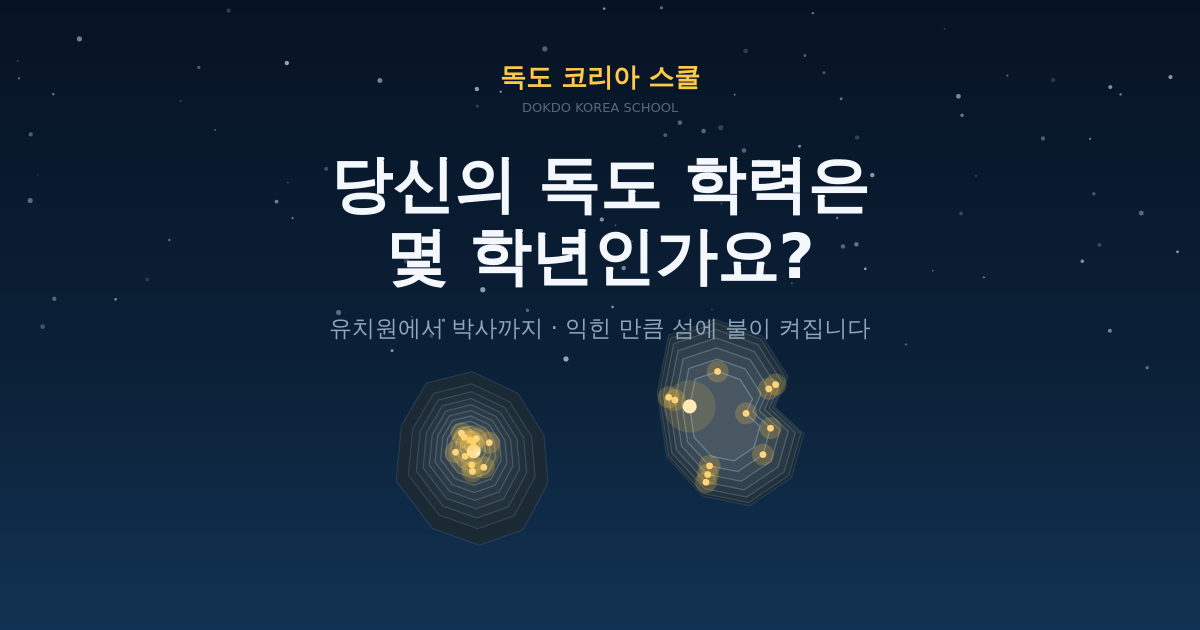
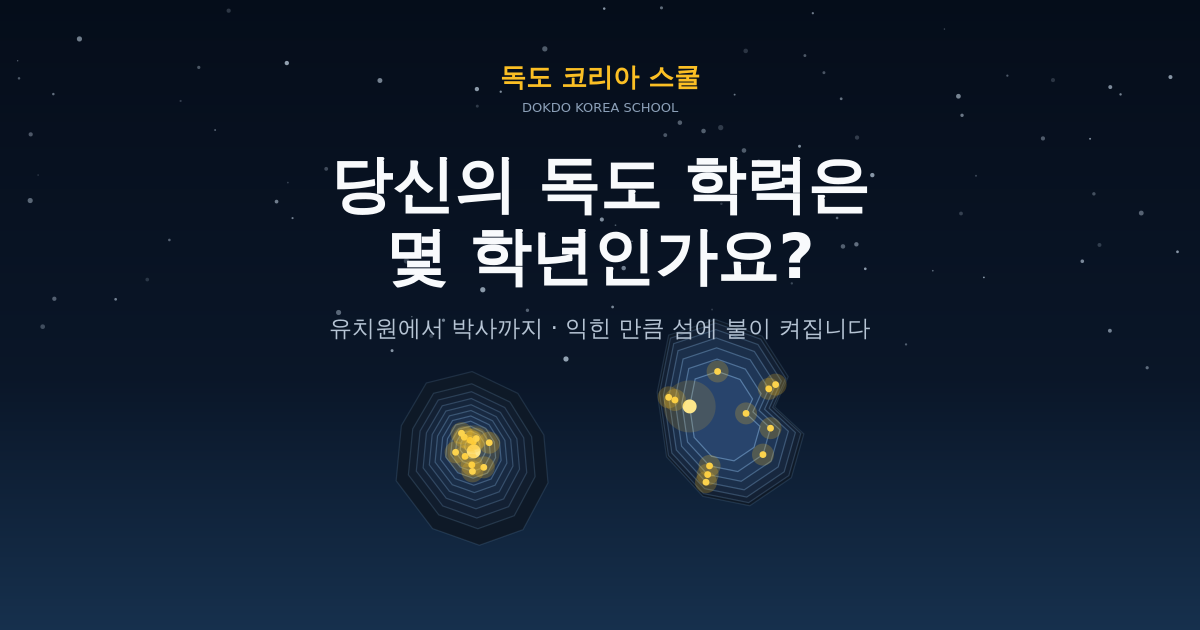
Add files via upload

diff --git a/index.html b/index.html
@@ -54,22 +54,22 @@
        발표자료·피칭덱과 같은 값을 씁니다. 앱만 다른 색을 쓰면 브랜드가 갈라집니다.
        바다는 완전한 검정 대신 아주 어두운 회색을 씁니다.
        순검정 위에서는 섬과 파도의 층이 구분되지 않습니다. */
-    --sea-deep:#0A0A0A;
-    --sea:#101010;
-    --panel:#1C1C19;
-    --panel-2:#242421;
-    --line:#333330;
-    --line-soft:#262623;
-    --ink:#F5F5F5;
-    --ink-mid:#C4C4BE;
-    --ink-dim:#9A9A94;
-    --light:#FFD600;
-    --light-soft:#FFE766;
-    --light-deep:#B39600;
+    --sea-deep:#050D1A;
+    --sea:#0A1628;
+    --panel:#0F2035;
+    --panel-2:#16304D;
+    --line:#1E3A5F;
+    --line-soft:#142842;
+    --ink:#F8FAFC;
+    --ink-mid:#B6C4D4;
+    --ink-dim:#8CA0B8;
+    --light:#FBBF24;
+    --light-soft:#FCD34D;
+    --light-deep:#B45309;
     --ok:#48C79E;
     --no:#E4695D;
-    --rock:#42423A;
-    --rock-lit:#5C5C51;
+    --rock:#1E3A5F;
+    --rock-lit:#3A6789;
     --r:14px;
     --maxw:600px;
   }
@@ -77,6 +77,8 @@
   body{
     margin:0;
     background:var(--sea-deep);
+    background-image:radial-gradient(130% 62% at 50% -6%, #0E2440 0%, #071324 45%, #050D1A 100%);
+    background-attachment:fixed;
     color:var(--ink);
     font-family:"GmarketSans","Apple SD Gothic Neo",system-ui,sans-serif;
     font-weight:500;
@@ -115,7 +117,7 @@
   .brand span{color:var(--light)}
   .stat{
     display:flex;align-items:center;gap:5px;
-    background:linear-gradient(180deg,#262623,#1A1A18);
+    background:linear-gradient(180deg,#262623,#081324);
     box-shadow:inset 0 1px 0 rgba(255,255,255,.05),0 1px 0 rgba(0,0,0,.3);
     border:1px solid var(--line-soft);
     border-radius:999px;padding:5px 11px;font-size:14px;color:var(--ink-mid);
@@ -129,7 +131,7 @@
     position:relative;overflow:hidden;
     box-shadow:inset 0 1px 0 rgba(255,255,255,.07),
                0 18px 38px -26px rgba(0,0,0,.95);
-    background:linear-gradient(180deg,#040A13 0%,#0D0D0C 46%,#131311 100%);
+    background:linear-gradient(180deg,#040A13 0%,#050D1A 46%,#081324 100%);
     border:1px solid var(--line-soft);border-radius:var(--r);
     margin-bottom:14px;
   }
@@ -145,9 +147,9 @@
   .sound-btn.on .sb-t{font-weight:600}
   .stars circle{fill:#CFE0F0}
   .rockface{fill:var(--rock)}
-  .rockedge{fill:none;stroke:#6B6B62;stroke-width:1.3;stroke-linejoin:round;opacity:.85}
+  .rockedge{fill:none;stroke:#4A7BA3;stroke-width:1.3;stroke-linejoin:round;opacity:.85}
   /* 능선 아래쪽에 한 겹 더. 각진 면이 살아납니다. */
-  .rockrim{fill:none;stroke:#8A8A80;stroke-width:.7;opacity:.32;stroke-linejoin:round}
+  .rockrim{fill:none;stroke:#6B9BC4;stroke-width:.7;opacity:.32;stroke-linejoin:round}
   .refl{opacity:.26}
   .refls{mix-blend-mode:screen}
   .lamp{fill:var(--light-soft)}
@@ -155,7 +157,7 @@
   /* 불빛 단계별 색. 주광색에서 시작해 에메랄드로 끝납니다. */
   .lamp-aura{fill:url(#glow)}
   .lamp-core{fill:#FFFFFF;opacity:.9}
-  .lv1 .lamp{fill:#FFE766} .lv1 .lamp-halo,.lv1.refl{fill:#FFD600}
+  .lv1 .lamp{fill:#FCD34D} .lv1 .lamp-halo,.lv1.refl{fill:#FBBF24}
   .lv2 .lamp{fill:#F5F5F5} .lv2 .lamp-halo,.lv2.refl{fill:#CFE0F0}
   .lv3 .lamp{fill:#C6F573} .lv3 .lamp-halo,.lv3.refl{fill:#8FD93A}
   .lv4 .lamp{fill:#5CF0C0} .lv4 .lamp-halo,.lv4.refl{fill:#20C99A}
@@ -163,7 +165,7 @@
   .legend i{display:inline-flex;align-items:center;gap:5px;font-style:normal;
     font-size:12.5px;color:var(--ink-dim)}
   .legend i b{width:8px;height:8px;border-radius:99px;display:block}
-  .seaband{stroke:#2E2E29;stroke-width:1;opacity:.5}
+  .seaband{stroke:#1E3A5F;stroke-width:1;opacity:.5}
   .island-cap{
     position:absolute;left:0;right:0;bottom:0;
     padding:12px 14px;
@@ -182,7 +184,7 @@
   .bar{height:9px;border-radius:99px;background:#0C1727;overflow:hidden;
     box-shadow:inset 0 2px 4px rgba(0,0,0,.55), inset 0 -1px 0 rgba(255,255,255,.04)}
   .bar i{display:block;height:100%;border-radius:99px;
-    background:linear-gradient(180deg,#FFE766,#FFD600 55%,#D9930F);
+    background:linear-gradient(180deg,#FCD34D,#FBBF24 55%,#D9930F);
     box-shadow:0 0 12px -2px rgba(247,183,51,.75), inset 0 1px 0 rgba(255,255,255,.4);
     transition:width .5s cubic-bezier(.2,.8,.3,1)}
 
@@ -192,7 +194,7 @@
   .btn{
     display:block;width:100%;text-align:center;
     padding:15px 18px;border-radius:13px;
-    background:linear-gradient(180deg,#FFD264 0%,#FFD600 52%,#E9A31C 100%);
+    background:linear-gradient(180deg,#FFD264 0%,#FBBF24 52%,#E9A31C 100%);
     color:#2A1A02;font-weight:700;font-size:16px;letter-spacing:-.02em;
     box-shadow:0 3px 0 #9C6608, 0 10px 22px -12px rgba(247,183,51,.75),
                inset 0 1px 0 rgba(255,255,255,.45);
@@ -203,12 +205,12 @@
     box-shadow:0 0 0 #9C6608, 0 4px 10px -8px rgba(247,183,51,.6),
                inset 0 1px 0 rgba(255,255,255,.3)}
   .btn.ghost{
-    background:linear-gradient(180deg,#1E1E1C 0%,#132135 100%);
+    background:linear-gradient(180deg,#0A1628 0%,#132135 100%);
     border:1px solid var(--line);color:var(--ink-mid);font-weight:500;
     box-shadow:0 2px 0 rgba(0,0,0,.35), inset 0 1px 0 rgba(255,255,255,.05)}
   .btn.ghost:hover{border-color:var(--ink-dim);color:var(--ink)}
   .btn.ghost:active{transform:translateY(2px);box-shadow:0 0 0 rgba(0,0,0,.35)}
-  .btn.exam{background:linear-gradient(100deg,#FFD600,#FFE766);box-shadow:0 0 0 1px rgba(247,183,51,.35),0 8px 26px -12px rgba(247,183,51,.8)}
+  .btn.exam{background:linear-gradient(100deg,#FBBF24,#FCD34D);box-shadow:0 0 0 1px rgba(247,183,51,.35),0 8px 26px -12px rgba(247,183,51,.8)}
   .btn[disabled]{opacity:.4;cursor:not-allowed;filter:none;transform:none}
   .btnrow{display:flex;flex-direction:column;gap:9px;margin-top:14px}
 
@@ -265,7 +267,7 @@
   .opt{
     display:flex;align-items:flex-start;gap:11px;width:100%;text-align:left;
     padding:15px 15px;border-radius:12px;
-    background:linear-gradient(180deg,#262623 0%,#1A1A18 100%);
+    background:linear-gradient(180deg,#262623 0%,#081324 100%);
     border:1px solid var(--line-soft);
     box-shadow:0 2px 0 rgba(0,0,0,.32), inset 0 1px 0 rgba(255,255,255,.05);
     font-size:15px;line-height:1.5;
@@ -275,7 +277,7 @@
   .opt:active:not(:disabled){transform:translateY(2px);box-shadow:0 0 0 rgba(0,0,0,.32)}
   .opt .num{
     flex:none;width:21px;height:21px;border-radius:6px;margin-top:1px;
-    background:linear-gradient(180deg,#22374F,#242421);border:1px solid var(--line);
+    background:linear-gradient(180deg,#22374F,#16304D);border:1px solid var(--line);
     box-shadow:inset 0 1px 0 rgba(255,255,255,.10);
     font-size:13px;display:grid;place-items:center;color:var(--ink-mid);
     font-family:"IBM Plex Mono",monospace;font-weight:600;
@@ -317,9 +319,11 @@
 
   /* ---------- 시작 화면 ---------- */
   .intro{padding:44px 0 26px;text-align:center}
-  .intro h1{font-size:38px;line-height:1.2;margin-bottom:12px}
+  .intro h1{font-size:clamp(38px,10.5vw,58px);line-height:1.12;margin-bottom:14px;
+      letter-spacing:-.03em;font-weight:700;
+      text-shadow:0 0 42px rgba(251,191,36,.20)}
   .intro h1 span{color:var(--light)}
-  .intro p{color:var(--ink-mid);font-size:14.5px;max-width:34ch;margin:0 auto;line-height:1.7}
+  .intro p{color:var(--ink-mid);font-size:16px;max-width:32ch;margin:0 auto;line-height:1.75}
   .field{margin:26px 0 6px}
   .field label{display:block;font-size:14px;color:var(--ink-dim);margin-bottom:7px}
   .field input{
@@ -492,7 +496,7 @@
    오른쪽에서 왼쪽으로 흐릅니다. 손가락을 올리면 멈춥니다.
    움직임을 줄이도록 설정한 기기에서는 흐르지 않고 그냥 보입니다. */
 .ticker{overflow:hidden;white-space:nowrap;border-radius:13px;margin:0 0 11px;
-  padding:9px 0;background:linear-gradient(100deg,#1E1E1C,#164e79 55%,#1E1E1C);
+  padding:9px 0;background:linear-gradient(100deg,#0A1628,#164e79 55%,#0A1628);
   box-shadow:inset 0 1px 0 rgba(255,255,255,.10),0 3px 10px rgba(10,40,70,.16)}
 /* 같은 줄을 두 번 이어 붙이고 딱 절반만 밀기 때문에 끊김 없이 이어집니다.
    왼쪽 여백을 주면 절반 계산이 어긋나 한 바퀴마다 튑니다. 여백은 글 안에 넣습니다. */
@@ -576,7 +580,7 @@ button .bi-en{font-size:.8em;font-weight:600;opacity:.92}
 .hall-t{font-size:13.5px;font-weight:800;color:var(--ink-mid,#6F8399);
   letter-spacing:.02em;margin:0 0 4px}
 .hall-row{display:flex;align-items:center;gap:8px;padding:5px 0;
-  border-top:1px solid var(--line,#333330)}
+  border-top:1px solid var(--line,#1E3A5F)}
 .hall-sec .hall-row:first-of-type{border-top:none}
 .hall-m{font-size:15px;width:20px;text-align:center;flex:none}
 .hall-n small{font-weight:500;opacity:.62;margin-left:6px;font-size:.86em}
@@ -588,7 +592,7 @@ button .bi-en{font-size:.8em;font-weight:600;opacity:.92}
 /* ---------- 학교 찾기 ---------- */
 .sch-wrap{position:relative}
 .sch-list{position:absolute;left:0;right:0;top:100%;z-index:40;max-height:230px;
-  overflow:auto;background:var(--card,#10202f);border:1px solid var(--line,#333330);
+  overflow:auto;background:var(--card,#10202f);border:1px solid var(--line,#1E3A5F);
   border-radius:10px;box-shadow:0 8px 22px rgba(0,0,0,.35);margin-top:4px}
 .sch-list b{display:block;padding:9px 12px;font-weight:600;font-size:13.5px;cursor:pointer}
 .sch-list b:hover,.sch-list b.on{background:rgba(255,213,126,.14)}
@@ -604,7 +608,7 @@ button .bi-en{font-size:.8em;font-weight:600;opacity:.92}
     .lang-foot .lang-link{color:var(--ink-dim);text-decoration:none;padding:6px 10px;border-radius:8px}
     .lang-foot .lang-link.on{color:var(--light);font-weight:600}
     .lang-sep{color:var(--ink-dim);opacity:.5}
-    .code-row .btn{width:auto;flex:none;padding:0 12px;font-size:14px;white-space:nowrap;line-height:1}
+    .code-row .btn{width:auto;flex:none;padding:0 12px;font-size:14px;white-space:nowrap;line-height:1;box-shadow:0 6px 22px rgba(251,191,36,.16)}
 @media(max-width:380px){.code-row{flex-wrap:wrap}.code-row input{flex:1 0 100%}}
 </style>
 </head>
@@ -630,11 +634,11 @@ button .bi-en{font-size:.8em;font-weight:600;opacity:.92}
 <div class="locmap">
 <svg aria-label="울릉도·독도·일본 오키섬의 상대 위치 / Relative positions of Ulleungdo, Dokdo and the Oki Islands" role="img" viewBox="0 0 400 250">
 <!-- 한반도 동쪽 해안 -->
-<path d="M0,26 L44,34 L58,58 L52,86 L64,112 L56,140 L70,166 L58,196 L72,224 L60,250 L0,250 Z" fill="#232320"></path>
+<path d="M0,26 L44,34 L58,58 L52,86 L64,112 L56,140 L70,166 L58,196 L72,224 L60,250 L0,250 Z" fill="#0F2035"></path>
 <path d="M44,34 L58,58 L52,86 L64,112 L56,140 L70,166 L58,196 L72,224 L60,250" fill="none" stroke="#26445E" stroke-width="1.2"></path>
 <text class="mapname ko" style="letter-spacing:.16em;font-size:12px" x="14" y="132">KOREA</text>
 <!-- 일본 혼슈 서안 -->
-<path d="M400,150 L366,164 L344,190 L332,216 L318,250 L400,250 Z" fill="#232320"></path>
+<path d="M400,150 L366,164 L344,190 L332,216 L318,250 L400,250 Z" fill="#0F2035"></path>
 <path d="M366,164 L344,190 L332,216 L318,250" fill="none" stroke="#26445E" stroke-width="1.2"></path>
 <text class="mapname" style="letter-spacing:.14em;font-size:11px" x="348" y="232">JAPAN</text>
 <!-- 동해 -->
@@ -643,13 +647,13 @@ button .bi-en{font-size:.8em;font-weight:600;opacity:.92}
 <!-- 거리선 -->
 <line opacity=".85" stroke="var(--light)" stroke-dasharray="4 3" stroke-width="1.3" x1="150" x2="243" y1="140" y2="126"></line>
 <line opacity=".7" stroke="#3D6180" stroke-dasharray="4 3" stroke-width="1.3" x1="243" x2="336" y1="126" y2="176"></line>
-<text class="mapname" fill="#FFD600" x="163" y="126">87.4km</text>
+<text class="mapname" fill="#FBBF24" x="163" y="126">87.4km</text>
 <text class="mapname" x="272" y="146">157.5km</text>
 <!-- 울릉도 -->
-<circle cx="150" cy="140" fill="#3A3A34" r="5.5"></circle><circle cx="150" cy="140" fill="#7E97AC" r="2"></circle>
+<circle cx="150" cy="140" fill="#3A6789" r="5.5"></circle><circle cx="150" cy="140" fill="#7E97AC" r="2"></circle>
 <text class="mapname ko" text-anchor="middle" x="150" y="160">울릉도</text><text class="mapname" style="font-size:10px" text-anchor="middle" x="150" y="173">Ulleungdo</text>
 <!-- 오키섬 -->
-<circle cx="336" cy="176" fill="#3A3A34" r="4.5"></circle><circle cx="336" cy="176" fill="#7E97AC" r="1.8"></circle>
+<circle cx="336" cy="176" fill="#3A6789" r="4.5"></circle><circle cx="336" cy="176" fill="#7E97AC" r="1.8"></circle>
 <text class="mapname" text-anchor="middle" x="335" y="196">일본 오키섬</text><text class="mapname" style="font-size:9px" text-anchor="middle" x="335" y="209">Oki Islands (Japan)</text>
 <!-- 독도 -->
 <circle class="dokdo-glow" cx="243" cy="126" fill="var(--light)" r="17"></circle>
@@ -953,7 +957,7 @@ const PROMOTE_N=12;
    이름·색·섬 위 크기·다음 복습까지의 날수가 한 줄에 모여 있어
    예전처럼 네 군데를 따로 고치다 하나를 빠뜨릴 일이 없습니다. */
 const LIT=[
- {ko:"작은 불", en:"Small Light",   col:"#FFE766", r:1.35, h:4.2, ho:.20, next:3},
+ {ko:"작은 불", en:"Small Light",   col:"#FCD34D", r:1.35, h:4.2, ho:.20, next:3},
  {ko:"중간 불", en:"Growing Light", col:"#F4F8FF", r:1.9,  h:5.6, ho:.24, next:7},
  {ko:"큰 불",   en:"Bright Light",  col:"#C6F573", r:2.5,  h:7.4, ho:.28, next:14},
  {ko:"봉화",    en:"Beacon",        col:"#5CF0C0", r:3.2,  h:11,  ho:.32, next:30},
@@ -1753,7 +1757,7 @@ function seaCompass(cx,cy){
   x.beginPath(); x.moveTo(cx,cy-r+3); x.lineTo(cx,cy+r-3);
   x.moveTo(cx-r+3,cy); x.lineTo(cx+r-3,cy); x.stroke();
   /* 북쪽 바늘만 색을 줍니다 */
-  x.globalAlpha=.95; x.fillStyle='#FFD600';
+  x.globalAlpha=.95; x.fillStyle='#FBBF24';
   x.beginPath(); x.moveTo(cx,cy-r-4); x.lineTo(cx-6,cy-r+11); x.lineTo(cx+6,cy-r+11);
   x.closePath(); x.fill();
   x.globalAlpha=.7; x.fillStyle='#A8BED6';
@@ -1814,12 +1818,12 @@ function seaFrame(now){
   (()=>{const[ax,ay]=CP(-92,26),[bx,by]=CP(112,4);
    x.setLineDash([5,6]);x.strokeStyle='rgba(255,201,74,.42)';x.lineWidth=1.3;
    x.beginPath();x.moveTo(ax,ay);x.lineTo(bx,by);x.stroke();x.setLineDash([]);
-   x.font='600 15px GmarketSans,sans-serif';x.fillStyle='#B39600';x.textAlign='center';
+   x.font='600 15px GmarketSans,sans-serif';x.fillStyle='#B45309';x.textAlign='center';
    x.fillText('151m',(ax+bx)/2,(ay+by)/2-9);})();
   /* 동도 등대 — 불빛이 하나도 없어도 섬은 살아 있습니다 */
   (()=>{const[sx,sy]=CP(215,-185);
    x.fillStyle='#3D5876';x.fillRect(sx-2,sy,4,20);
-   x.globalAlpha=.5+Math.sin(t*1.6)*.16;x.fillStyle='#FFF0A0';
+   x.globalAlpha=.5+Math.sin(t*1.6)*.16;x.fillStyle='#FDE68A';
    x.beginPath();x.arc(sx,sy-3,9,0,7);x.fill();x.globalAlpha=1;
    x.fillStyle='#FFF6DC';x.beginPath();x.arc(sx,sy-3,2.8,0,7);x.fill();})();
 
@@ -1881,7 +1885,7 @@ const SCREENS=["s-intro","s-locate","s-start","s-home","s-lesson","s-result"];
 /* 독도 코리아 음원. 날짜로 골라 하루에 한 곡씩 돕니다.
    무작위로 뽑으면 새로고침할 때마다 곡이 바뀌어 '오늘의 곡'이 되지 않습니다. */
 const SONGS=["M7FvE6fxUVw","FopCZvMGvRQ","rots70BT7S4","4z2lzU7ZYGk",
-             "IS0fK9kt-sE","EZfn_mKg9sI","xBd6QDlTLpE","GKNV0UX3dIU",
+             "EZfn_mKg9sI","xBd6QDlTLpE","GKNV0UX3dIU",
              "7QRtHpzAgeA","AheUe-8-sDY","sgzS66CXiew","ogh--u-5xQg"];
 /* 진급 축하에 쓰는 세 곡. 초등·중등·고등 졸업에서 한 번씩만 띄웁니다.
    매 학년마다 띄우면 축하가 아니라 방해가 됩니다. */
@@ -2828,14 +2832,14 @@ function drawChip(x,cx,cy,glyph,on){
   const r=33;
   x.beginPath();x.arc(cx,cy,r,0,7);
   x.fillStyle=on?"rgba(247,183,51,.13)":"rgba(22,39,61,.55)";x.fill();
-  x.lineWidth=on?3:1.5;x.strokeStyle=on?"#FFD600":"#22394F";x.stroke();
+  x.lineWidth=on?3:1.5;x.strokeStyle=on?"#FBBF24":"#22394F";x.stroke();
   if(on){x.globalAlpha=.18;x.beginPath();x.arc(cx,cy,r+9,0,7);
-    x.fillStyle="#FFD600";x.fill();x.globalAlpha=1;}
+    x.fillStyle="#FBBF24";x.fill();x.globalAlpha=1;}
   /* 글자 수에 맞춰 크기를 줄여 원 안에 확실히 들어가게 합니다. */
   const fs=glyph.length>=3?19:glyph.length===2?25:31;
   x.font=`700 ${fs}px "IBM Plex Mono",ui-monospace,monospace`;
   x.textAlign="center";x.textBaseline="middle";
-  x.fillStyle=on?"#FFE766":"#3D5468";x.fillText(glyph,cx,cy+1);
+  x.fillStyle=on?"#FCD34D":"#3D5468";x.fillText(glyph,cx,cy+1);
   x.textBaseline="alphabetic";
 }
 
@@ -2861,11 +2865,11 @@ function drawIdentity(x,W,y){
   if(hasFlag){
     drawFlag(x,left,cy-fw/3-5,fw,code);
   }else{
-    x.fillStyle="#242421";x.strokeStyle="#2A4056";x.lineWidth=1.5;
+    x.fillStyle="#16304D";x.strokeStyle="#2A4056";x.lineWidth=1.5;
     if(x.roundRect){x.beginPath();x.roundRect(left,cy-21,cw,30,8);x.fill();x.stroke();}
     else x.fillRect(left,cy-21,cw,30);
     x.font='600 21px "IBM Plex Mono",monospace';
-    x.fillStyle="#FFE766";x.fillText(code,left+cw/2,cy);
+    x.fillStyle="#FCD34D";x.fillText(code,left+cw/2,cy);
   }
   x.font='500 27px "GmarketSans","Apple SD Gothic Neo",sans-serif';
   x.fillStyle="#A9BCD0";x.textAlign="left";x.fillText(sub,left+cw+13,cy);
@@ -2876,7 +2880,7 @@ function makeCard(){
   const W=1080,H=1350,c=document.createElement("canvas");
   c.width=W;c.height=H;const x=c.getContext("2d");
   const g=x.createLinearGradient(0,0,0,H);
-  g.addColorStop(0,"#040A13");g.addColorStop(.55,"#0D0D0C");g.addColorStop(1,"#131311");
+  g.addColorStop(0,"#040A13");g.addColorStop(.55,"#050D1A");g.addColorStop(1,"#081324");
   x.fillStyle=g;x.fillRect(0,0,W,H);
 
   /* 같은 사람이 다시 받아도 같은 별자리가 나오도록 시드 난수를 씁니다. */
@@ -2890,7 +2894,7 @@ function makeCard(){
     x.fillStyle=col;x.textAlign=al||"center";};
 
   /* 머리말 */
-  F("",700,30,"#FFD600");x.fillText(APP_NAME,W/2,86);
+  F("",700,30,"#FBBF24");x.fillText(APP_NAME,W/2,86);
   F("",500,15,"#54697D");x.fillText(APP_NAME_EN,W/2,114);
 
   /* 신분 — 카드에서 제일 큰 글자 */
@@ -2903,7 +2907,7 @@ function makeCard(){
               [String(totalCorrect()),"맞힌 문제"],
               [String(S.streak),"연속 개근"]];
   HERO.forEach((v,i)=>{const cx=W/2+(i-1)*300;
-    F("",700,78,"#FFD600");x.fillText(v[0],cx,392);
+    F("",700,78,"#FBBF24");x.fillText(v[0],cx,392);
     F("",400,26,"#6F8399");x.fillText(v[1],cx,436);});
 
   /* 섬 (앱 화면과 같은 좌표를 2.7배로) */
@@ -2918,7 +2922,7 @@ function makeCard(){
   P("M202,172L214,151L223,155L233,129L243,117L253,111L263,101L277,96L289,97L301,105L309,117L319,129L327,149L337,153L350,172Z");
   x.fillStyle="#081726";x.fillRect(0,OY+172*K,W,H-(OY+172*K));
   /* 앱 화면과 같은 수평 물결선. 없으면 아래쪽이 텅 빈 검은 판이 됩니다. */
-  x.strokeStyle="#2E2E29";x.lineWidth=2;x.globalAlpha=.5;
+  x.strokeStyle="#1E3A5F";x.lineWidth=2;x.globalAlpha=.5;
   for(let i=0;i<7;i++){const yy=OY+178*K+i*26;if(yy>H-210)break;
     x.beginPath();x.moveTo(0,yy);x.lineTo(W,yy);x.stroke();}
   x.globalAlpha=1;
@@ -2926,19 +2930,19 @@ function makeCard(){
   /* 동도 등대 — 불빛이 하나도 없어도 섬은 살아 있다 */
   x.fillStyle="#31485E";x.fillRect(OX+286*K,OY+80*K,3*K,18*K);
   const lx=OX+287.5*K,ly=OY+78*K;
-  x.globalAlpha=.15;x.fillStyle="#FFD600";x.beginPath();x.arc(lx,ly,26,0,7);x.fill();
-  x.globalAlpha=1;x.fillStyle="#FFD600";x.beginPath();x.arc(lx,ly,7,0,7);x.fill();
+  x.globalAlpha=.15;x.fillStyle="#FBBF24";x.beginPath();x.arc(lx,ly,26,0,7);x.fill();
+  x.globalAlpha=1;x.fillStyle="#FBBF24";x.beginPath();x.arc(lx,ly,7,0,7);x.fill();
 
   /* 봉화와 불빛 — 작은 빛 10개가 큰 봉화 하나로 합쳐집니다. */
   const lit=lightCount(), bc=beacons(Math.min(lit,SPOTS.length*BEACON_AT));
   const at=i=>SPOTS[i%SPOTS.length];
   for(let i=0;i<bc.big;i++){const p=at(i),px=OX+p.x*K,py=OY+p.y*K;
-    x.globalAlpha=.14;x.fillStyle="#FFD600";x.beginPath();x.arc(px,py,30,0,7);x.fill();
+    x.globalAlpha=.14;x.fillStyle="#FBBF24";x.beginPath();x.arc(px,py,30,0,7);x.fill();
     x.globalAlpha=.30;x.beginPath();x.arc(px,py,17,0,7);x.fill();
-    x.globalAlpha=1;x.fillStyle="#FFF0A0";x.beginPath();x.arc(px,py,8.4,0,7);x.fill();}
+    x.globalAlpha=1;x.fillStyle="#FDE68A";x.beginPath();x.arc(px,py,8.4,0,7);x.fill();}
   for(let i=0;i<bc.small;i++){const p=at(bc.big+i),px=OX+p.x*K,py=OY+p.y*K;
-    x.globalAlpha=.22;x.fillStyle="#FFD600";x.beginPath();x.arc(px,py,11,0,7);x.fill();
-    x.globalAlpha=1;x.fillStyle="#FFE766";x.beginPath();x.arc(px,py,3.6,0,7);x.fill();}
+    x.globalAlpha=.22;x.fillStyle="#FBBF24";x.beginPath();x.arc(px,py,11,0,7);x.fill();
+    x.globalAlpha=1;x.fillStyle="#FCD34D";x.beginPath();x.arc(px,py,3.6,0,7);x.fill();}
   x.globalAlpha=1;
 
   /* 성취 뱃지 — 좌우 세로줄. 획득 여부와 무관하게 자리는 늘 보입니다. */
